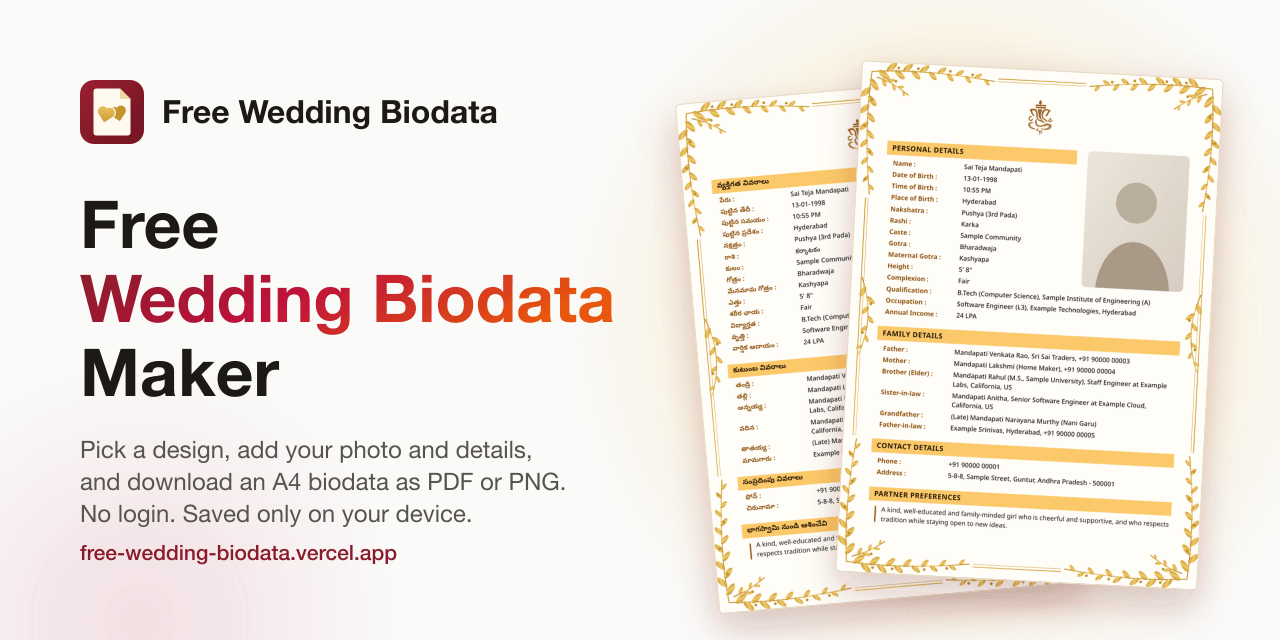
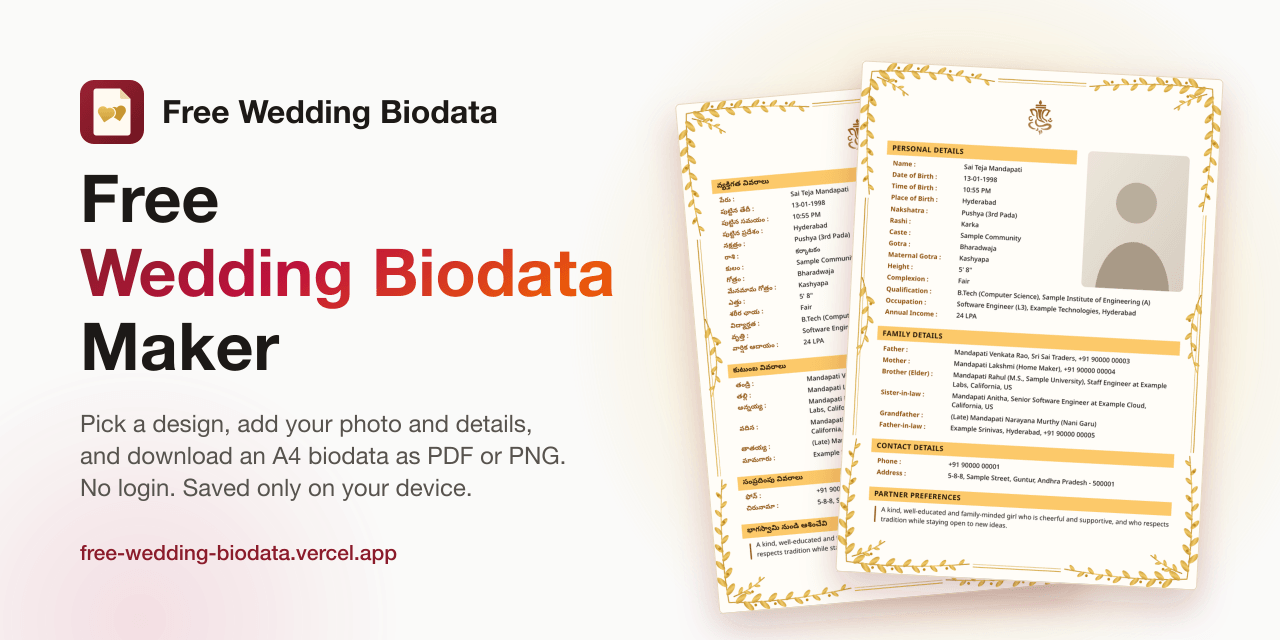
Step 6.2 part 1: WCAG 2.2 AA check with axe, and its fixes
- e2e/a11y.spec.ts: axe-core's WCAG 2.0/2.1/2.2 A and AA rules on every
  public page and the editor (form, phone preview sheet, Add a field),
  Day and Night, phone and desktop. axe-core 4.14.1 is now a direct dev
  dependency (it came only through eslint-plugin-jsx-a11y).
- Fixed what it found: the Day grey (--ink-3) is #6b645f (was #78716c,
  4.4:1 on the sunken fill), with a unit test over every text colour on
  every surface in both themes; the zoom button's accessible name starts
  with its visible text; the desktop preview's scrolling column is
  keyboard-focusable; the landing feature rows are h2 sections.
- Social preview: on GitHub's 640 px card the description and headline
  move up so the address has room (owner's request).
- Native reading of the language pages skipped for now (owner's
  choice); they stay reviewed: false.
- landing.spec checks only the pictures a phone shows.

Tests: unit all pass; full e2e 324 passed, 0 failed (114 skipped by
design), run here. This also confirms the part 1 and part 2 changes of
Step 6.1 and the phone sheet fix.

Changed region(s): [[0.0625, 0.25, 0.5, 0.625], [0.0625, 0.6562, 0.4375, 0.8438]]

diff --git a/e2e/a11y.spec.ts b/e2e/a11y.spec.ts
@@ -1,0 +1,69 @@
+import { readFileSync } from "node:fs";
+import { resolve } from "node:path";
+import { expect, test, type Page } from "@playwright/test";
+import { openStoredDraft, sampleDraft } from "./editor-helpers";
+
+// Step 6.2 (VISION D16, WCAG 2.2 AA): axe-core's WCAG 2.0, 2.1 and 2.2 A/AA rules on every public page and the
+// editor's main states, in Day and Night, on a phone and a desktop. The biodata preview is left out: it is the printed
+// page, whose colours are checked by the palette contrast tests (D51, D56), and it is hidden from screen readers.
+
+const AXE = readFileSync(resolve(process.cwd(), "node_modules/axe-core/axe.min.js"), "utf8");
+const TAGS = ["wcag2a", "wcag2aa", "wcag21a", "wcag21aa", "wcag22aa"];
+const THEMES = ["light", "dark"] as const;
+
+interface Violation {
+  id: string;
+  impact: string | null;
+  help: string;
+  nodes: { target: string[]; failureSummary?: string }[];
+}
+
+async function violations(page: Page): Promise<string[]> {
+  await page.addScriptTag({ content: AXE });
+  const found = await page.evaluate(async (tags) => {
+    const axe = (window as unknown as { axe: { run: (context: unknown, options: unknown) => Promise<{ violations: Violation[] }> } }).axe;
+    const result = await axe.run({ exclude: [['[data-testid="preview-pages"]'], ["[data-extra-page]"]] }, { runOnly: { type: "tag", values: tags } });
+    return result.violations;
+  }, TAGS);
+  return found.flatMap((v) => v.nodes.map((n) => `${v.id} (${v.impact}): ${v.help} at ${n.target.join(" ")}`));
+}
+
+const PAGES = ["/", "/templates", "/guide", "/te", "/biodata-format/muslim", "/help", "/privacy", "/no-such-page"];
+
+for (const path of PAGES) {
+  test(`${path} meets WCAG 2.2 AA (axe), Day and Night`, async ({ page }) => {
+    for (const theme of THEMES) {
+      await page.emulateMedia({ colorScheme: theme });
+      await page.goto(path);
+      await expect(page.locator("html")).toHaveClass(theme === "dark" ? /dark/ : /^(?!.*dark)/);
+      expect.soft(await violations(page), `${path} ${theme}`).toEqual([]);
+    }
+  });
+}
+
+test("the editor meets WCAG 2.2 AA (axe): the form, the preview and a dialog, Day and Night", async ({ page, isMobile }) => {
+  test.setTimeout(90_000);
+  await openStoredDraft(page, sampleDraft("a11y-editor"));
+  for (const theme of THEMES) {
+    await page.emulateMedia({ colorScheme: theme });
+    await page.reload();
+    await expect(page.getByTestId("editor-form")).toBeVisible();
+    await expect(page.getByTestId("editor-loading")).toHaveCount(0);
+    expect.soft(await violations(page), `editor ${theme}`).toEqual([]);
+
+    if (isMobile) {
+      await page.getByTestId("preview-pill").click();
+      await expect(page.getByRole("dialog", { name: "Preview" })).toBeVisible();
+      expect.soft(await violations(page), `preview sheet ${theme}`).toEqual([]);
+      await page.keyboard.press("Escape");
+      await expect(page.getByRole("dialog", { name: "Preview" })).toBeHidden();
+    }
+
+    await page.locator('[data-section="personal"]').getByRole("button", { name: /Add a field/ }).first().click();
+    const dialog = page.getByRole("dialog");
+    await expect(dialog).toBeVisible();
+    expect.soft(await violations(page), `add a field ${theme}`).toEqual([]);
+    await page.keyboard.press("Escape");
+    await expect(dialog).toBeHidden();
+  }
+});

diff --git a/src/components/landing/Sections.tsx b/src/components/landing/Sections.tsx
@@ -91,10 +91,10 @@ export function HowItWorks() {
 /** A feature row: words with ticks on one side, a real picture on the other (`flip` puts the picture first on wide screens). */
 export function FeatureRow({ id, prefix, points, flip = false, children, after }: { id?: string; prefix: string; points: number; flip?: boolean; children: ReactNode; after?: ReactNode }) {
   return (
-    <div id={id} className="grid scroll-mt-20 items-center gap-10 lg:grid-cols-2 lg:gap-16">
+    <section id={id} aria-label={t(`${prefix}.eyebrow` as AppKey)} className="grid scroll-mt-20 items-center gap-10 lg:grid-cols-2 lg:gap-16">
       <div className={flip ? "lg:order-2" : undefined}>
         <p className={eyebrow}>{t(`${prefix}.eyebrow` as AppKey)}</p>
-        <h3 className={sectionTitle}>{t(`${prefix}.title` as AppKey)}</h3>
+        <h2 className={sectionTitle}>{t(`${prefix}.title` as AppKey)}</h2>
         <p className={sectionLead}>{t(`${prefix}.text` as AppKey)}</p>
         {points ? (
           <ul className="mt-6 space-y-3">
@@ -109,7 +109,7 @@ export function FeatureRow({ id, prefix, points, flip = false, children, after }
         {after}
       </div>
       <div className={`rounded-2xl border border-line bg-gradient-to-br from-gold-soft/70 via-surface to-surface p-5 shadow-card sm:p-8 ${flip ? "lg:order-1" : ""}`}>{children}</div>
-    </div>
+    </section>
   );
 }
 

diff --git a/src/app/editor/preview/LivePreview.tsx b/src/app/editor/preview/LivePreview.tsx
@@ -275,7 +275,12 @@ function PagesPane({
         ref={pane}
         // The desktop column scrolls its pages; in the sheet the pages take their full height inside the sheet's own
         // scrolling body (PreviewSheet), under the controls.
-        className={zoomable ? "relative min-h-0 flex-1 overflow-auto overscroll-contain" : "relative"}
+        className={zoomable ? "relative min-h-0 flex-1 overflow-auto overscroll-contain outline-none focus-visible:ring-[3px] focus-visible:ring-ring focus-visible:ring-inset" : "relative"}
+        // The pages hold nothing focusable, so the scrolling column itself takes the focus for keyboard scrolling
+        // (WCAG 2.1.1; axe scrollable-region-focusable).
+        tabIndex={zoomable ? 0 : undefined}
+        role={zoomable ? "region" : undefined}
+        aria-label={zoomable ? t("preview.pane") : undefined}
         onScroll={(event) => setCurrent(pageInView(event.currentTarget.scrollTop, event.currentTarget.clientHeight, scale, pageCount))}
         data-testid="preview-pane"
       >

diff --git a/src/app/(public)/page.tsx b/src/app/(public)/page.tsx
@@ -72,7 +72,8 @@ export default function Home() {
 
       <HowItWorks />
 
-      <section aria-label={t("home.preview.eyebrow")} className="space-y-20 border-t border-line bg-sunken/40 py-16 sm:space-y-28 sm:py-24">
+      {/* Three feature rows, each its own section with an h2 (FeatureRow). */}
+      <div className="space-y-20 border-t border-line bg-sunken/40 py-16 sm:space-y-28 sm:py-24">
         <div className={pageWidth}>
           <FeatureRow prefix="home.preview" points={3}>
             <PagePicture id="classic-gold" alt={t("home.preview.alt")} className="mx-auto max-w-sm" />
@@ -91,7 +92,7 @@ export default function Home() {
             </div>
           </FeatureRow>
         </div>
-      </section>
+      </div>
 
       <section id="templates" aria-labelledby="templates-title" className="scroll-mt-20 border-t border-line py-16 sm:py-24">
         <div className={pageWidth}>

diff --git a/src/components/landing/languages.ts b/src/components/landing/languages.ts
@@ -3,7 +3,8 @@ import type { LangCode } from "@/biodata/types";
 // The nine language landing pages (Step 6.1 part 2, VISION D36): /te, /hi, … each written in its own language, for
 // people who search in it. The app's buttons are English only (D23), so every page says that only the printed biodata
 // is in that language. Kept short on purpose: these are the maker's own translations, not yet read by native
-// speakers (`reviewed: false`, tracked with the label dictionaries' review, D47). English is the home page itself.
+// speakers (`reviewed: false`; the owner chose on 2026-11-23 to publish them without that reading for now). English is
+// the home page itself.
 
 export type PageLang = Exclude<LangCode, "en">;
 

diff --git a/e2e/landing.spec.ts b/e2e/landing.spec.ts
@@ -19,9 +19,9 @@ function offsite(page: Page): string[] {
 /** The page's JSON-LD blocks, parsed. */
 const structuredData = (page: Page) => page.locator('script[type="application/ld+json"]').evaluateAll((scripts) => scripts.map((s) => JSON.parse(s.textContent!)));
 
-/** Every <img> on the page has loaded (scrolled into view first, for lazy ones). */
+/** Every shown <img> on the page has loaded (scrolled into view first, for lazy ones; phones hide the desktop shot). */
 async function picturesLoad(page: Page) {
-  const images = page.locator("main img");
+  const images = page.locator("main img:visible");
   const count = await images.count();
   expect(count).toBeGreaterThan(0);
   for (let i = 0; i < count; i++) {

diff --git a/src/app/theme-colours.test.ts b/src/app/theme-colours.test.ts
@@ -75,6 +75,12 @@ describe.each([
     expect(contrast(get("--brand-ink"), page)).toBeGreaterThanOrEqual(4.5);
   });
 
+  it("keeps every text colour at AA (4.5:1) on every surface it sits on (Step 6.2: axe found grey on sunken below it)", () => {
+    for (const ink of ["--ink", "--ink-2", "--ink-3"]) {
+      for (const bg of ["--surface", "--page", "--sunken", "--brand-soft"]) expect(contrast(get(ink), get(bg)), `${ink} on ${bg}`).toBeGreaterThanOrEqual(4.5);
+    }
+  });
+
   it("keeps brand-coloured icons readable on the soft icon tile", () => {
     for (const stop of stops(get("--tile-gradient"))) expect(contrast(get("--brand-ink"), stop), stop).toBeGreaterThanOrEqual(4.5);
   });

diff --git a/src/app/globals.css b/src/app/globals.css
@@ -18,7 +18,7 @@
   --line-strong: #d6d3d1;
   --ink: #1c1917;
   --ink-2: #44403c;
-  --ink-3: #78716c;
+  --ink-3: #6b645f; /* AA (≥ 4.5:1) on every Day surface: surface, page, sunken, brand-soft (Step 6.2) */
   --brand: #8a1c2b;
   --brand-hover: #74151f;
   --on-brand: #ffffff;

diff --git a/docs/BUILD_PLAN.md b/docs/BUILD_PLAN.md
@@ -557,12 +557,19 @@ Every screen is built **production-quality the first time**, to the standard of 
 
 ### Step 6.1, part 2: language pages, tradition pages, the writing guide (built 2026-11-23, VISION D36)
 
-- **Nine language pages** (`/te`, `/hi`, `/ta`, `/kn`, `/ml`, `/mr`, `/gu`, `/bn`, `/pa`; `src/app/(public)/[lang]/page.tsx`, words in `src/components/landing/languages.ts`): each in its own language (`lang` on the content), a real Classic Gold page with that language's headings, three points, and an honest note that the editor's buttons are English and only the biodata prints in the language. "Create" opens a new draft with its headings in that language (`/editor?new=1&lang=<code>`; `draftRequest` / `openNewDraft` take a `DraftStart`). `hreflang` alternates (eleven: English = the home page, nine languages, `x-default`) on the home page and every language page, `og:locale` and its alternates, a breadcrumb. The landing page's language chips link to them. The texts are the maker's own translations, `reviewed: false`, unit-tested for script and length; **native speakers read them with the label dictionaries (D47, owner check)**.
+- **Nine language pages** (`/te`, `/hi`, `/ta`, `/kn`, `/ml`, `/mr`, `/gu`, `/bn`, `/pa`; `src/app/(public)/[lang]/page.tsx`, words in `src/components/landing/languages.ts`): each in its own language (`lang` on the content), a real Classic Gold page with that language's headings, three points, and an honest note that the editor's buttons are English and only the biodata prints in the language. "Create" opens a new draft with its headings in that language (`/editor?new=1&lang=<code>`; `draftRequest` / `openNewDraft` take a `DraftStart`). `hreflang` alternates (eleven: English = the home page, nine languages, `x-default`) on the home page and every language page, `og:locale` and its alternates, a breadcrumb. The landing page's language chips link to them. The texts are the maker's own translations, `reviewed: false`, unit-tested for script and length. Native reading skipped for now (owner's choice 2026-11-23); they stay `reviewed: false`, so a later reading can be tracked.
 - **Five tradition pages** (`/biodata-format/hindu|muslim|christian|sikh|jain`; `src/components/landing/traditions.ts`, words in `en.json` `tradition.*`): what such a biodata usually holds (Personal details' rows built from the editor chips' own data, `TRADITION_FIELD_SETS`, printed labels from the English dictionary), the symbol families print, three tips, how to add the rows in the editor (never inferred, D43), and a real sample page of that family's own fictional biodata (`traditionDraft` in `test/fixtures/simple.ts`: a Muslim biodata has sect and maslak and no nakshatra, and so on), with our own drawn symbols only (crescent and star, cross, Ik Onkar; none for Jain while its symbols await community review).
 - **The guide** (`/guide`): nine parts (personal details to "before you send it"), each with advice and an example from the fictional sample, then the formats and a way into the editor.
 - **Navigation:** Guide in the header; the footer gains Learn (the guide and the five formats) and In your language (the nine pages). `sitemap.xml` lists all nineteen public pages in production, the home and language pages with their alternates. Unknown top-level paths stay 404 (`dynamicParams = false`).
 - **Pictures:** `simpleVariants` adds Classic Gold in the other nine languages and the four tradition samples; the capture spec saves them (`page-classic-gold-<lang>.png`, `page-tradition-<name>.png`); 34 design pictures.
 - **Tests:** unit (language scripts and lengths, alternates, tradition rows, the sitemap, `DraftStart`, the tradition samples' printed rows); e2e `landing.spec` (a language page in its language with eleven alternates whose button starts a Telugu-headed draft; the chips; a tradition page's rows and sample; the guide's links; 404 for other paths) and `screens.spec` shots of `/te`, `/biodata-format/muslim` and `/guide`.
+
+### Step 6.2, part 1: accessibility check (2026-11-23, VISION D16)
+
+- **`e2e/a11y.spec.ts`:** axe-core (now a direct dev dependency, 4.14.1) runs the WCAG 2.0, 2.1 and 2.2 A/AA rules on every public page (home, templates, guide, a language page, a tradition page, help, privacy, not found) and the editor (the form, the phone preview sheet, the Add a field dialog), Day and Night, phone and desktop. The biodata preview is left out (the printed page, covered by the palette contrast tests and hidden from screen readers).
+- **Found and fixed:** the Day grey (`--ink-3`, #78716c) was 4.4:1 on the sunken fill (segmented controls, kind tags, the comparison table's header, a hidden field's value): now #6b645f, at least 5.2:1 on every Day surface, with a unit test over every text colour and surface in both themes. The zoom button's spoken name now starts with its visible "Fit · 57%" (2.5.3). The desktop preview's scrolling column takes the keyboard focus (2.1.1). The landing page's feature rows are `h2` sections (the outline skipped a level).
+- **Also:** the social preview's description and headline move up on GitHub's 640 px card so the address has room; the landing spec checks only the pictures a phone shows.
+- Full e2e: 324 passed, 0 failed (114 skipped by design), on the agent's own run.
 
 ---
 
@@ -595,6 +602,6 @@ Every screen is built **production-quality the first time**, to the standard of 
 | 5.1 | Backup and restore | Done 2026-11-22. Unit 131 new, e2e `backup.spec.ts` 14 specs on phone and desktop with the A7 screenshots reviewed (menu, export, pick, error, preview, replace, result, both delete dialogs, storage card, quota; fixed: a wrapping file name, and X/Escape not reloading after the open draft was replaced). Owner to check by hand: another browser or phone, iPhone Safari, a large backup. See the Step 5.1 section |
 | 4.5 | Owner's M1 polish: dates, Telugu wording, sharper images, relaxed spacing (D53) | Done 2026-11-22. Refined the same day (D57): Style and Dates removed, Telugu families is four words, More photos last. Unit about 25 new, `editor-style.spec.ts` (24 passes), five designs, ten languages and 76+ fixtures checked for relaxed spacing. See the Step 4.5 section |
 | 5.2 | Offline and privacy checks | Done 2026-11-22. Unit 923 on the step alone (about 68 new: `sw.js` run against a fake CacheStorage, precache rules, registration, manifest, headers, storage usage); e2e `offline.spec.ts` 5 passed (+1 phone skip): offline reload, edit, Saved, PDF and JPEGs with the network off; D15 request log including the worker's own requests. Storage card offline line, privacy and help text reviewed at 3 sizes × Day/Night (fixed: tablet backup buttons overflowing; usage no longer counts the offline copy). Deviations: precache made at build time, every font precached, public pages kept. Owner: Vercel, Android install and airplane mode, iPhone home screen (see the Step 5.2 section) |
-| 6.1 | Landing, search engines, gallery, help, pictures | Built 2026-11-23 in two parts: real screenshots and previews, the landing page, the design gallery, structured data, sitemap, Search Console tag, Tag Manager (production public pages only); then nine language pages with hreflang, five tradition pages and the writing guide. See the Step 6.1 sections. Owner: native reading of the nine language pages (with D47), Search Console sitemap submission after launch |
-| 6.2 | Accessibility, phone QA, night theme check | Not started |
+| 6.1 | Landing, search engines, gallery, help, pictures | Built 2026-11-23 in two parts: real screenshots and previews, the landing page, the design gallery, structured data, sitemap, Search Console tag, Tag Manager (production public pages only); then nine language pages with hreflang, five tradition pages and the writing guide. See the Step 6.1 sections. Native reading of the nine language pages skipped for now (owner's choice 2026-11-23; they stay `reviewed: false`). Owner: Search Console sitemap submission after launch |
+| 6.2 | Accessibility, phone QA, night theme check | Part 1 2026-11-23: axe WCAG 2.2 AA on every public page and the editor, Day and Night, phone and desktop; contrast, label and keyboard fixes. See the Step 6.2 section. Next: phone and Night review, PROJECT_GUIDE review |
 | 6.3 | Launch | Not started |
